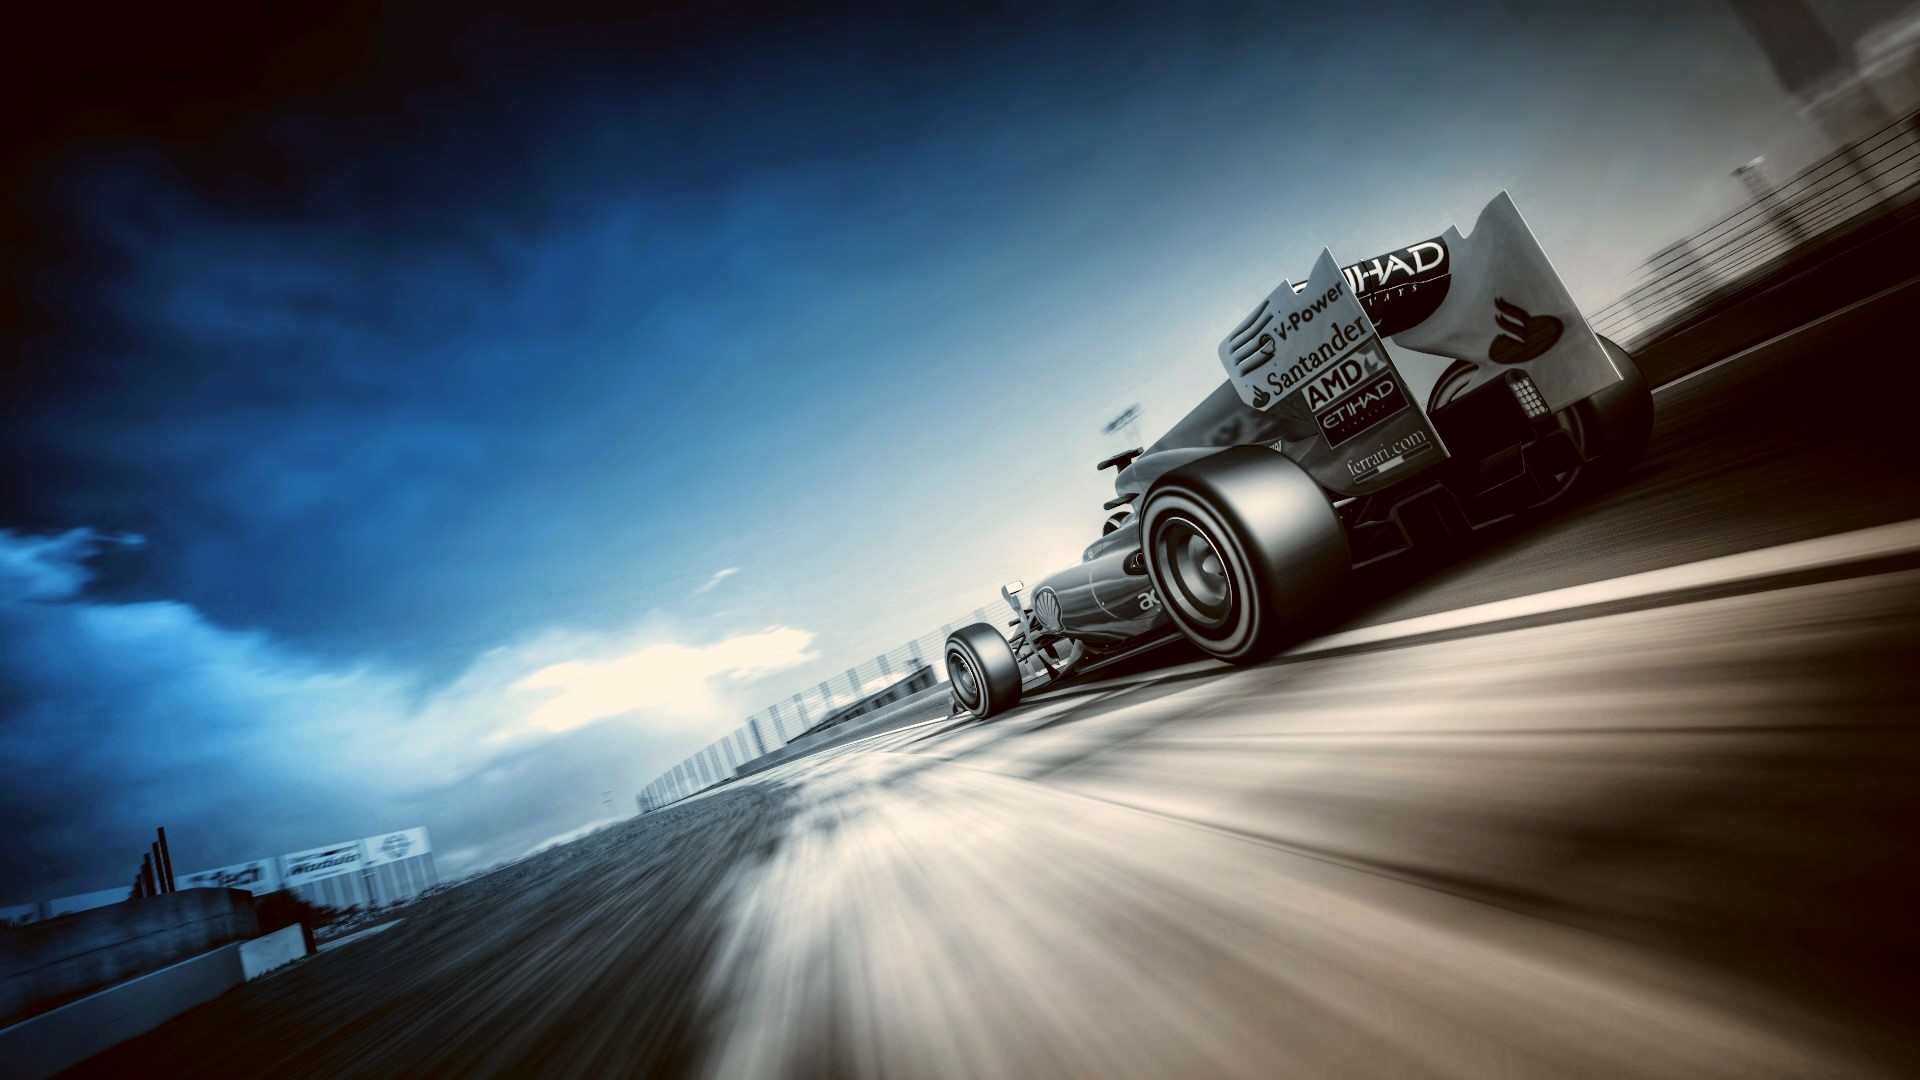
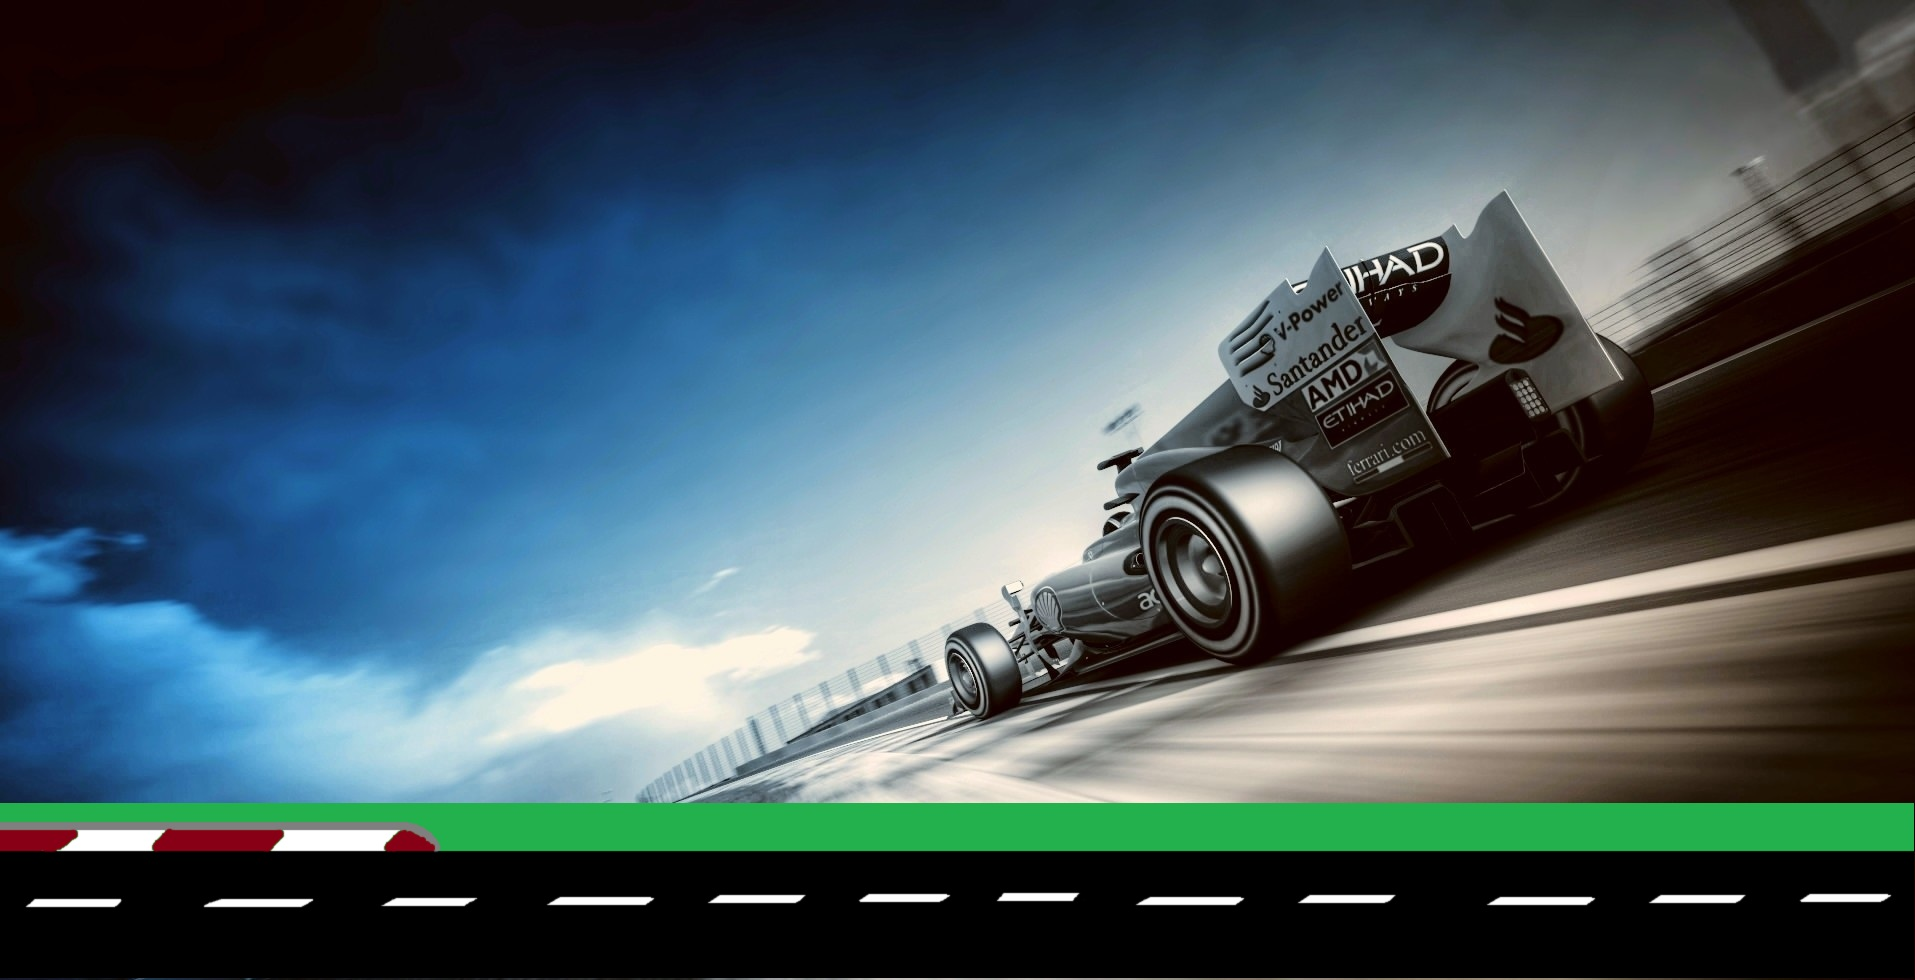
Fixa rörelse på bil

diff --git a/DesignLovr/public_html/cards.css b/DesignLovr/public_html/cards.css
@@ -1,5 +1,9 @@
 body{
     background-image: url(img/f1.jpg);
+    height: 100%;
+}
+#wrapper{
+    
 }
 li{
     padding-left: 15px;
@@ -86,8 +90,47 @@ li:hover{
 img{
 
 }
-#bottom{
-    position: fixed;
+#bil{
+    z-index: 40;
+    position: absolute;
     bottom: 0px;
-    margin-left: -10px;
+    padding-bottom: 10px;
+    /*margin-bottom: -40px;*/
+    /*padding-top: 850px;*/
+    right: 0px;
+    /*display: none;*/
+    
+}
+#button{
+    z-index: 13;
+    position: absolute;
+    bottom: 140px;
+    right: 20px;
+    background-color: black;
+    color: white;
+    border: none;
+}
+.classname{
+/*    -webkit-animation: movecar 10s infinite;
+    -moz-animation: movecar 10s infinite;
+    -o-animation: movecar 10s infinite;*/
+    animation: movecar 10s infinite;
+    -webkit-animation: movecar 10s infinite;
+    -moz-animation: movecar 10s infinite;
+    animation-direction: normal;
+    -webkit-animation-direction: normal;
+    -moz-animation-direction: normal;
+    animation-timing-function: linear;
+    -webkit-animation-timing-function: linear;
+    -moz-animation-timing-function: linear;
+}
+@-webkit-keyframes movecar{
+    from{margin-left: 1000px;}
+    to{margin-left: -1000px;}
+    
+}
+@-moz-keyframes movecar{
+    from{margin-left: 1000px;}
+    to{margin-left: -1000px;}
+    
 }

diff --git a/DesignLovr/public_html/index.html b/DesignLovr/public_html/index.html
@@ -11,6 +11,13 @@ and open the template in the editor.
         <meta name="viewport" content="width=device-width">
         <link rel="stylesheet" href="cards.css">
         <link href='http://fonts.googleapis.com/css?family=Gloria+Hallelujah' rel='stylesheet' type='text/css'>
+        
+        <script>
+            
+            function ani(){
+                document.getElementByID('bil').className ='classname';
+            }
+        </script>
     </head>
     <body>
         <div id="wrapper">
@@ -82,6 +89,10 @@ and open the template in the editor.
             </li>
         </ul>
     </div>
-        <img id="bottom" src="img/road.png" alt="#">
+        <div>
+            <input id="button" value="Klicka Här!" type="button" onclick="ani()"/>
+        </div>
+        <div id="bil"><img src="img/sideview.png" alt="#"></div>
+        <!--<img id="bottom" src="img/road.png" alt="#">-->
     </body>
 </html>
